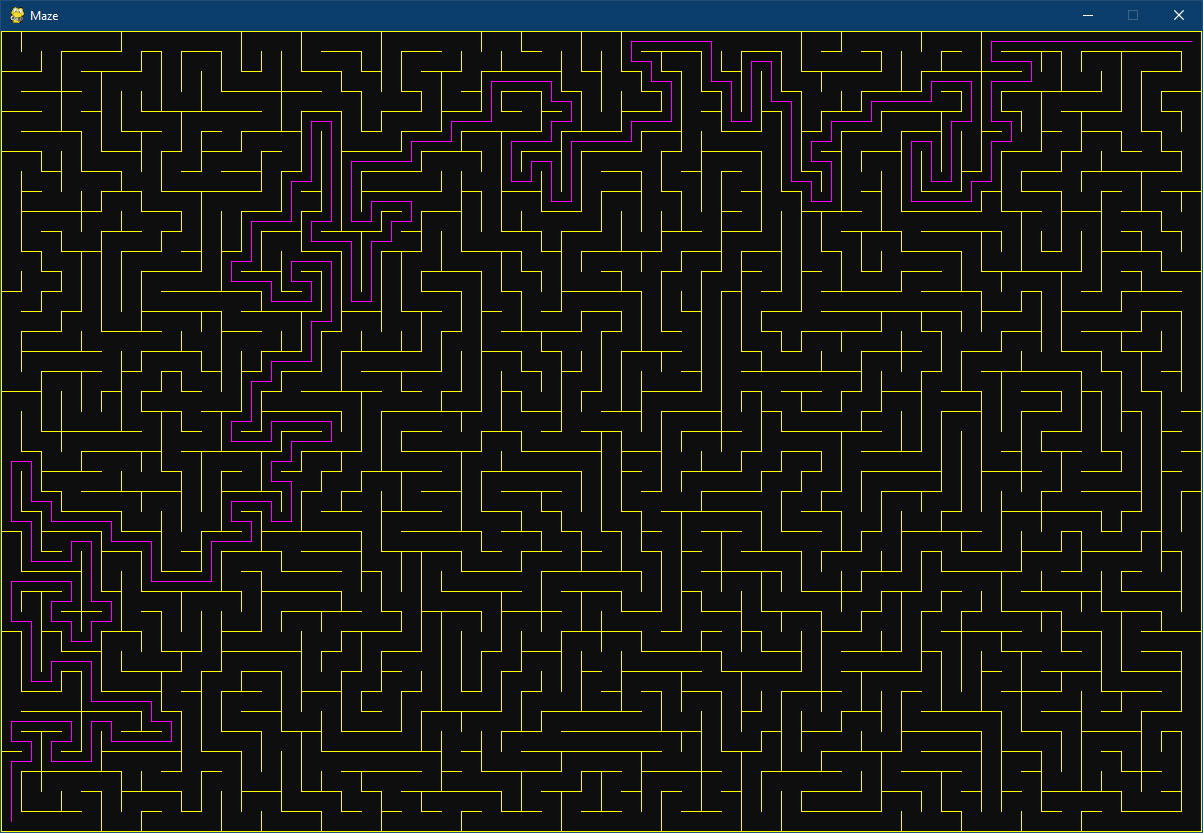
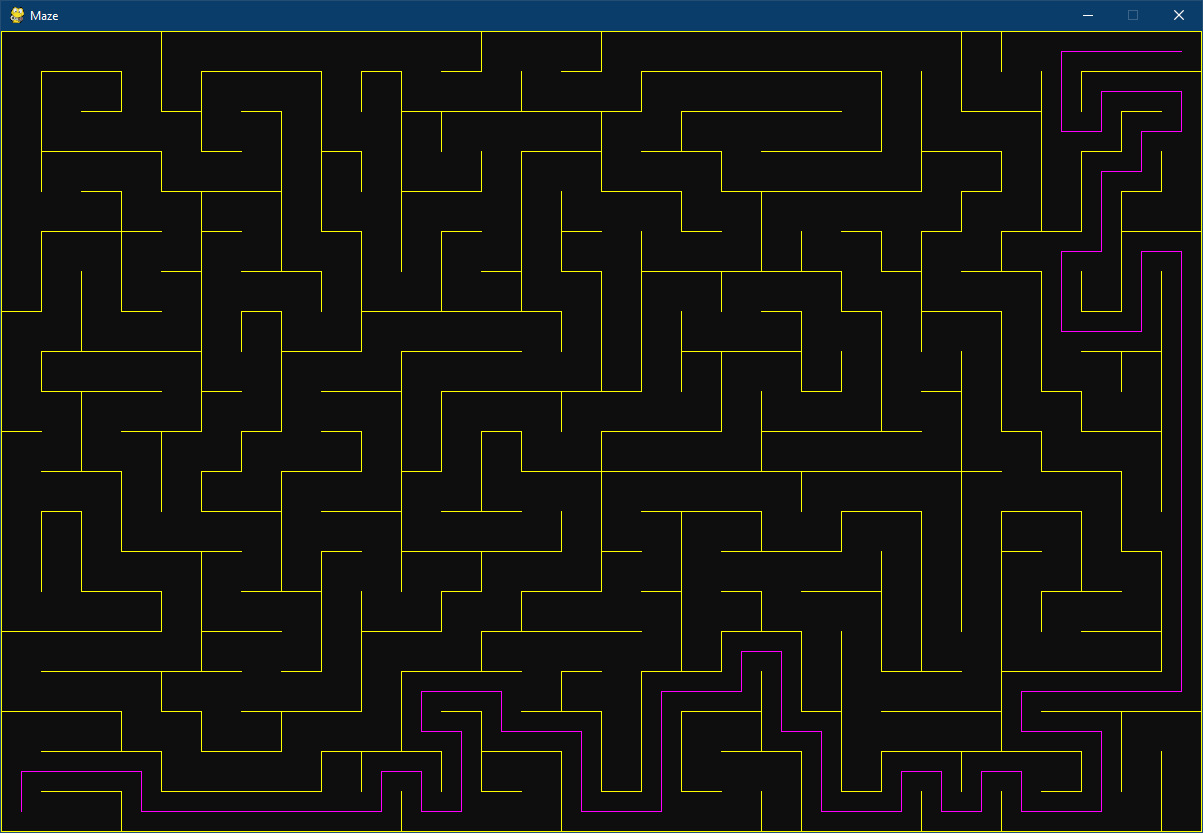
change example

diff --git a/main.py b/main.py
@@ -5,9 +5,9 @@ from Maze import Maze
 
 pygame.init()
 
-W = 60
-H = 40
-SCALE = 20
+W = 30
+H = 20
+SCALE = 40
 
 start, goal = (0, 0), (W-1, H-1)
 
